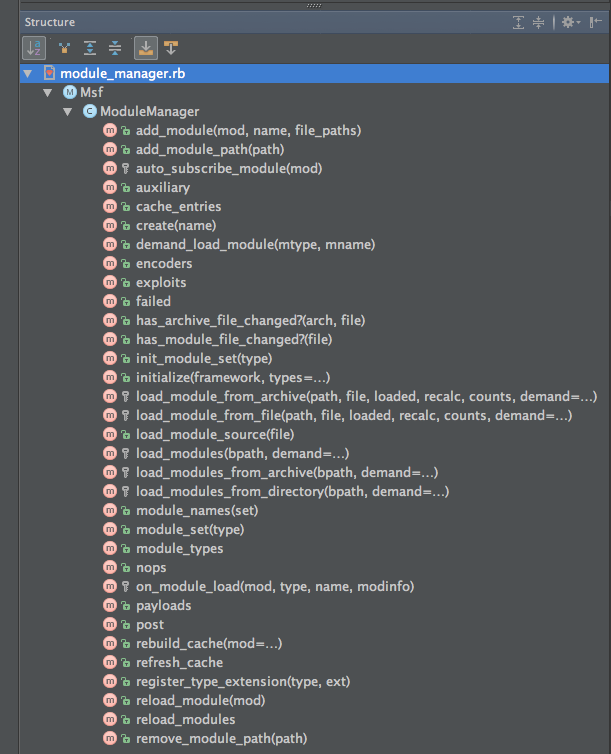
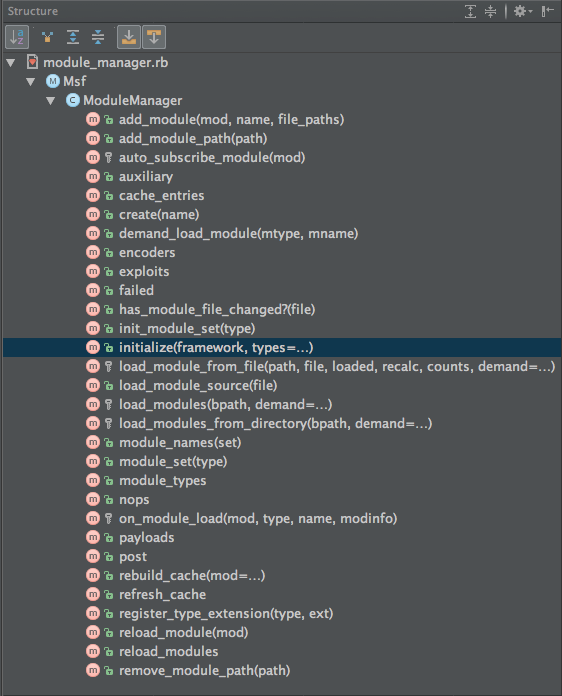
Remove archive from Msf::ModuleManager structure
MSP-12044

Changed region(s): [[0.0, 0.0, 0.9982, 1.0]]

diff --git a/index.html b/index.html
@@ -1765,13 +1765,10 @@ end
                             <li>loading (
                                 <code>#demand_load_module</code>,
                                 <code>#failed</code>,
-                                <code>#has_archive_file_changed?</code>,
                                 <code>#has_module_file_changed?</code>,
-                                <code>#load_module_from_archive</code>,
                                 <code>#load_module_from_file</code>,
                                 <code>#load_module_source</code>,
                                 <code>#load_modules</code>,
-                                <code>#load_modules_from_archive</code>,
                                 <code>#load_modules_from_directory</code>,
                                 <code>#on_module_load</code>)
                             </li>
